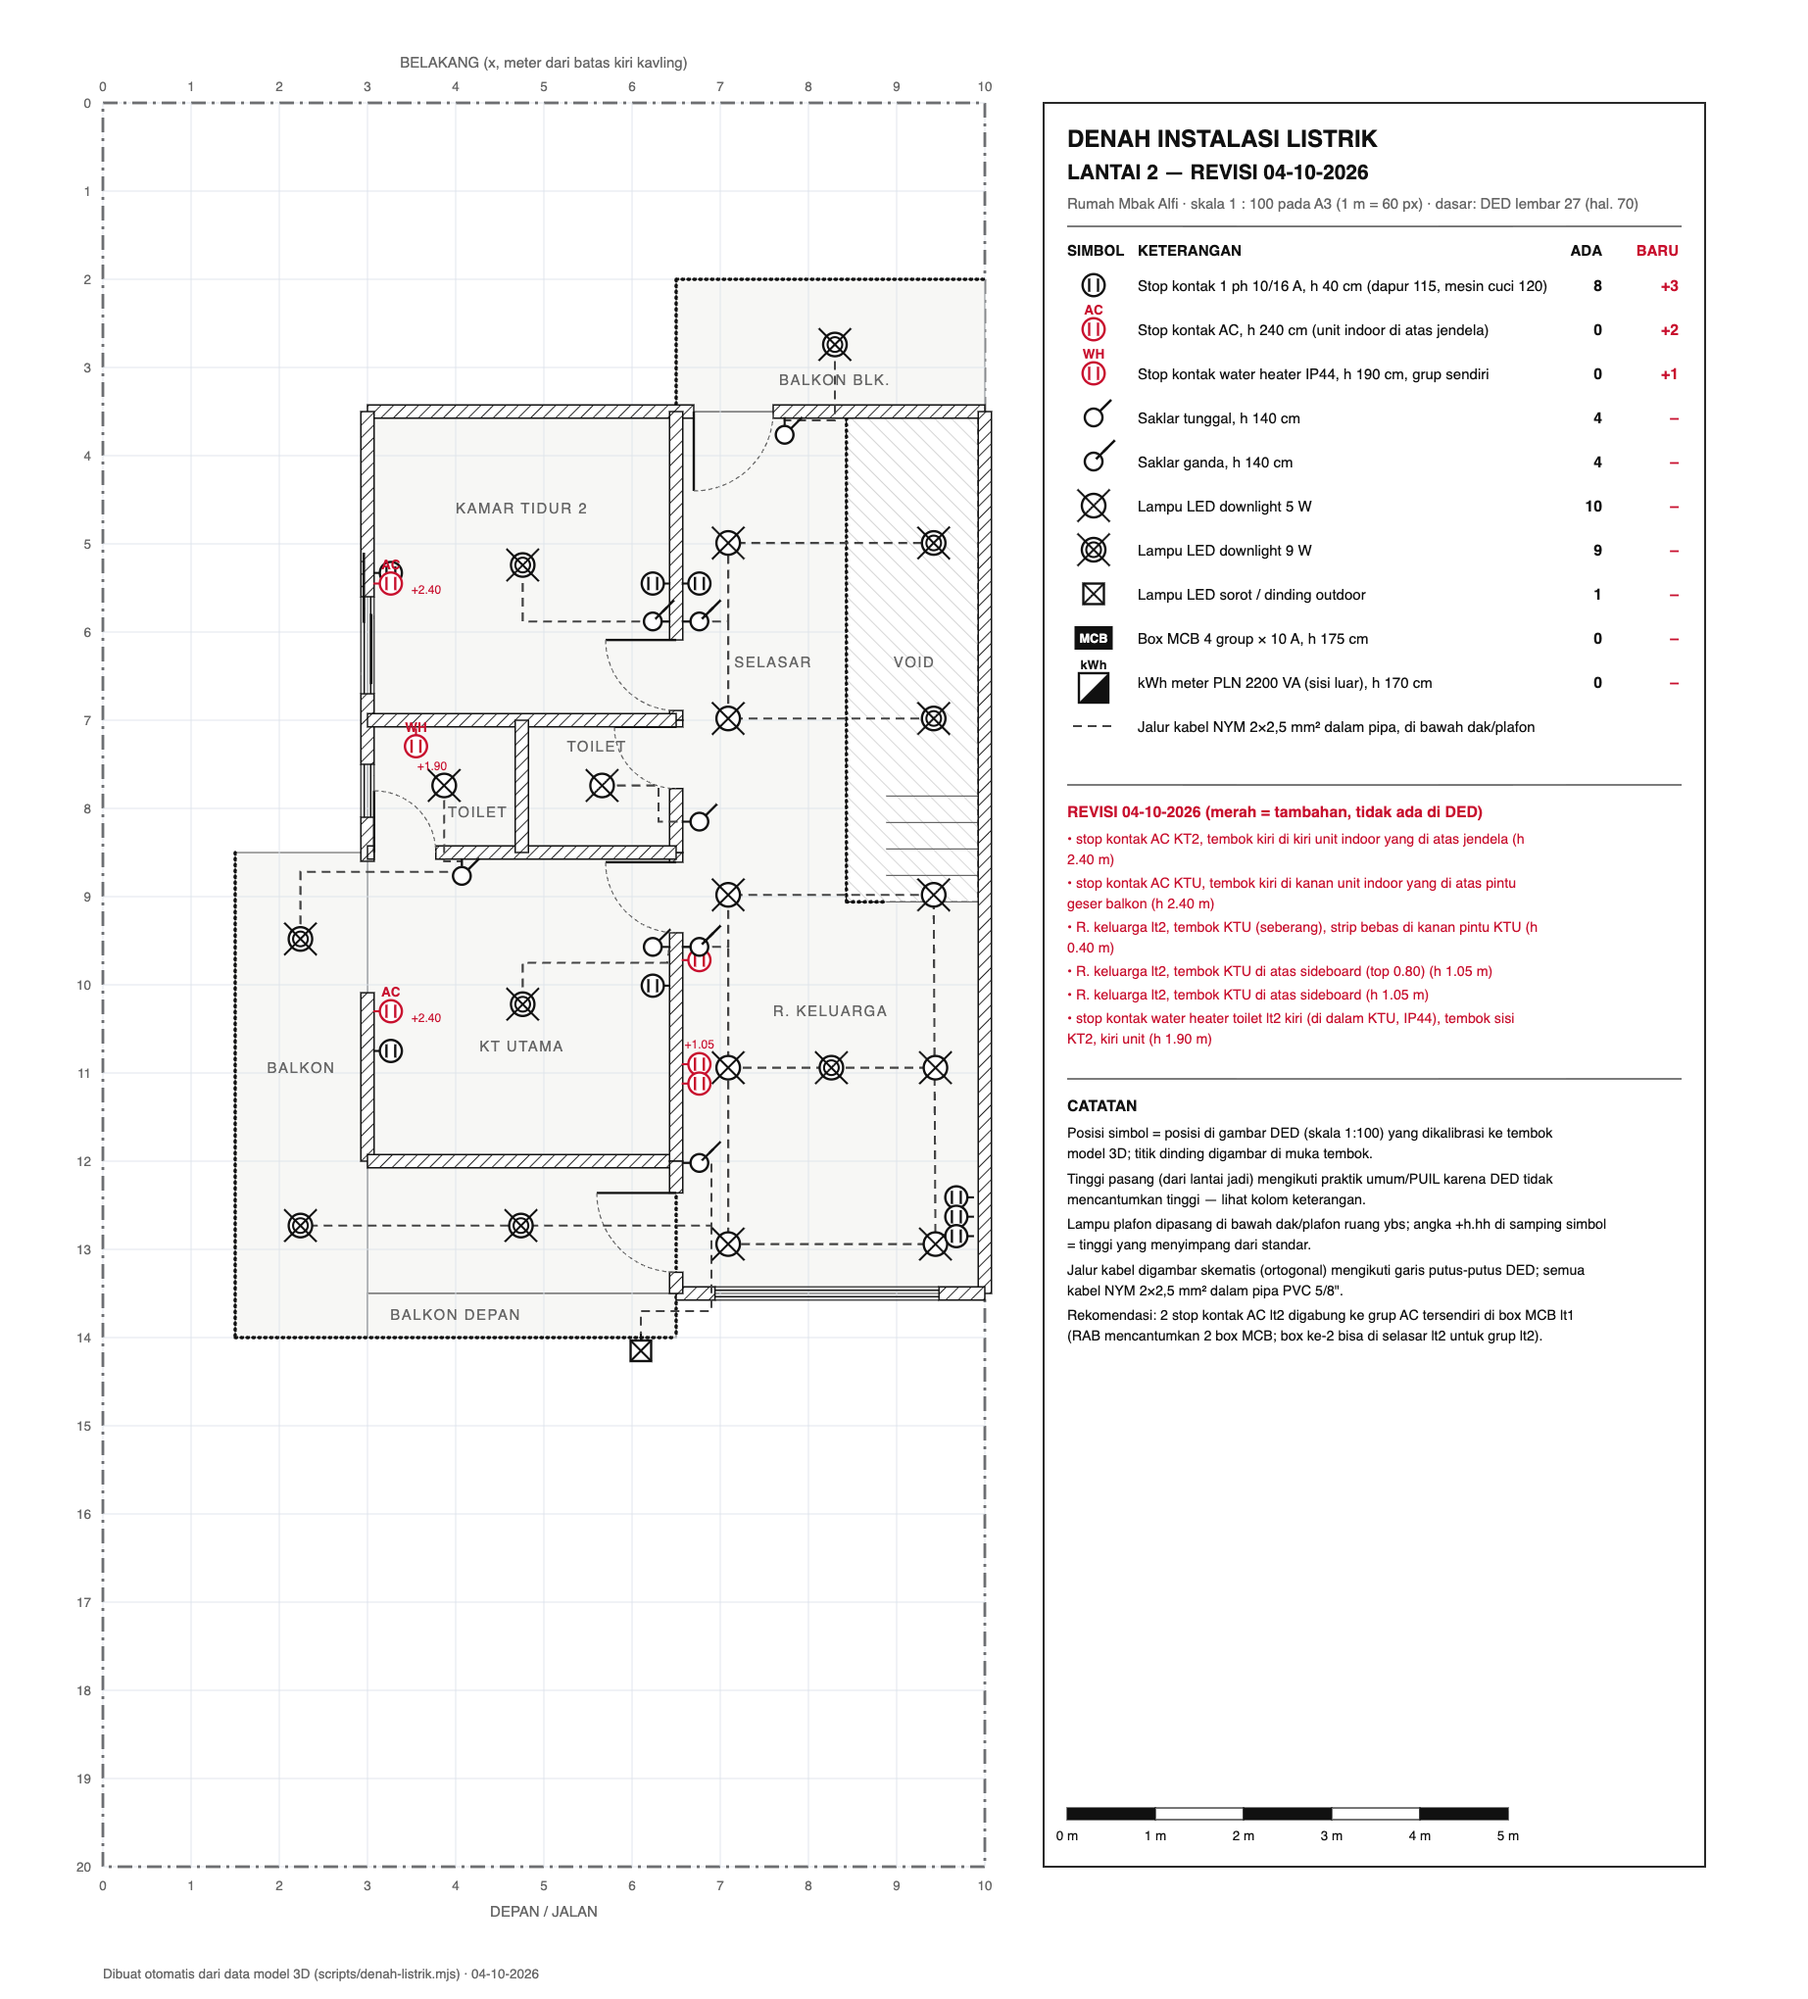
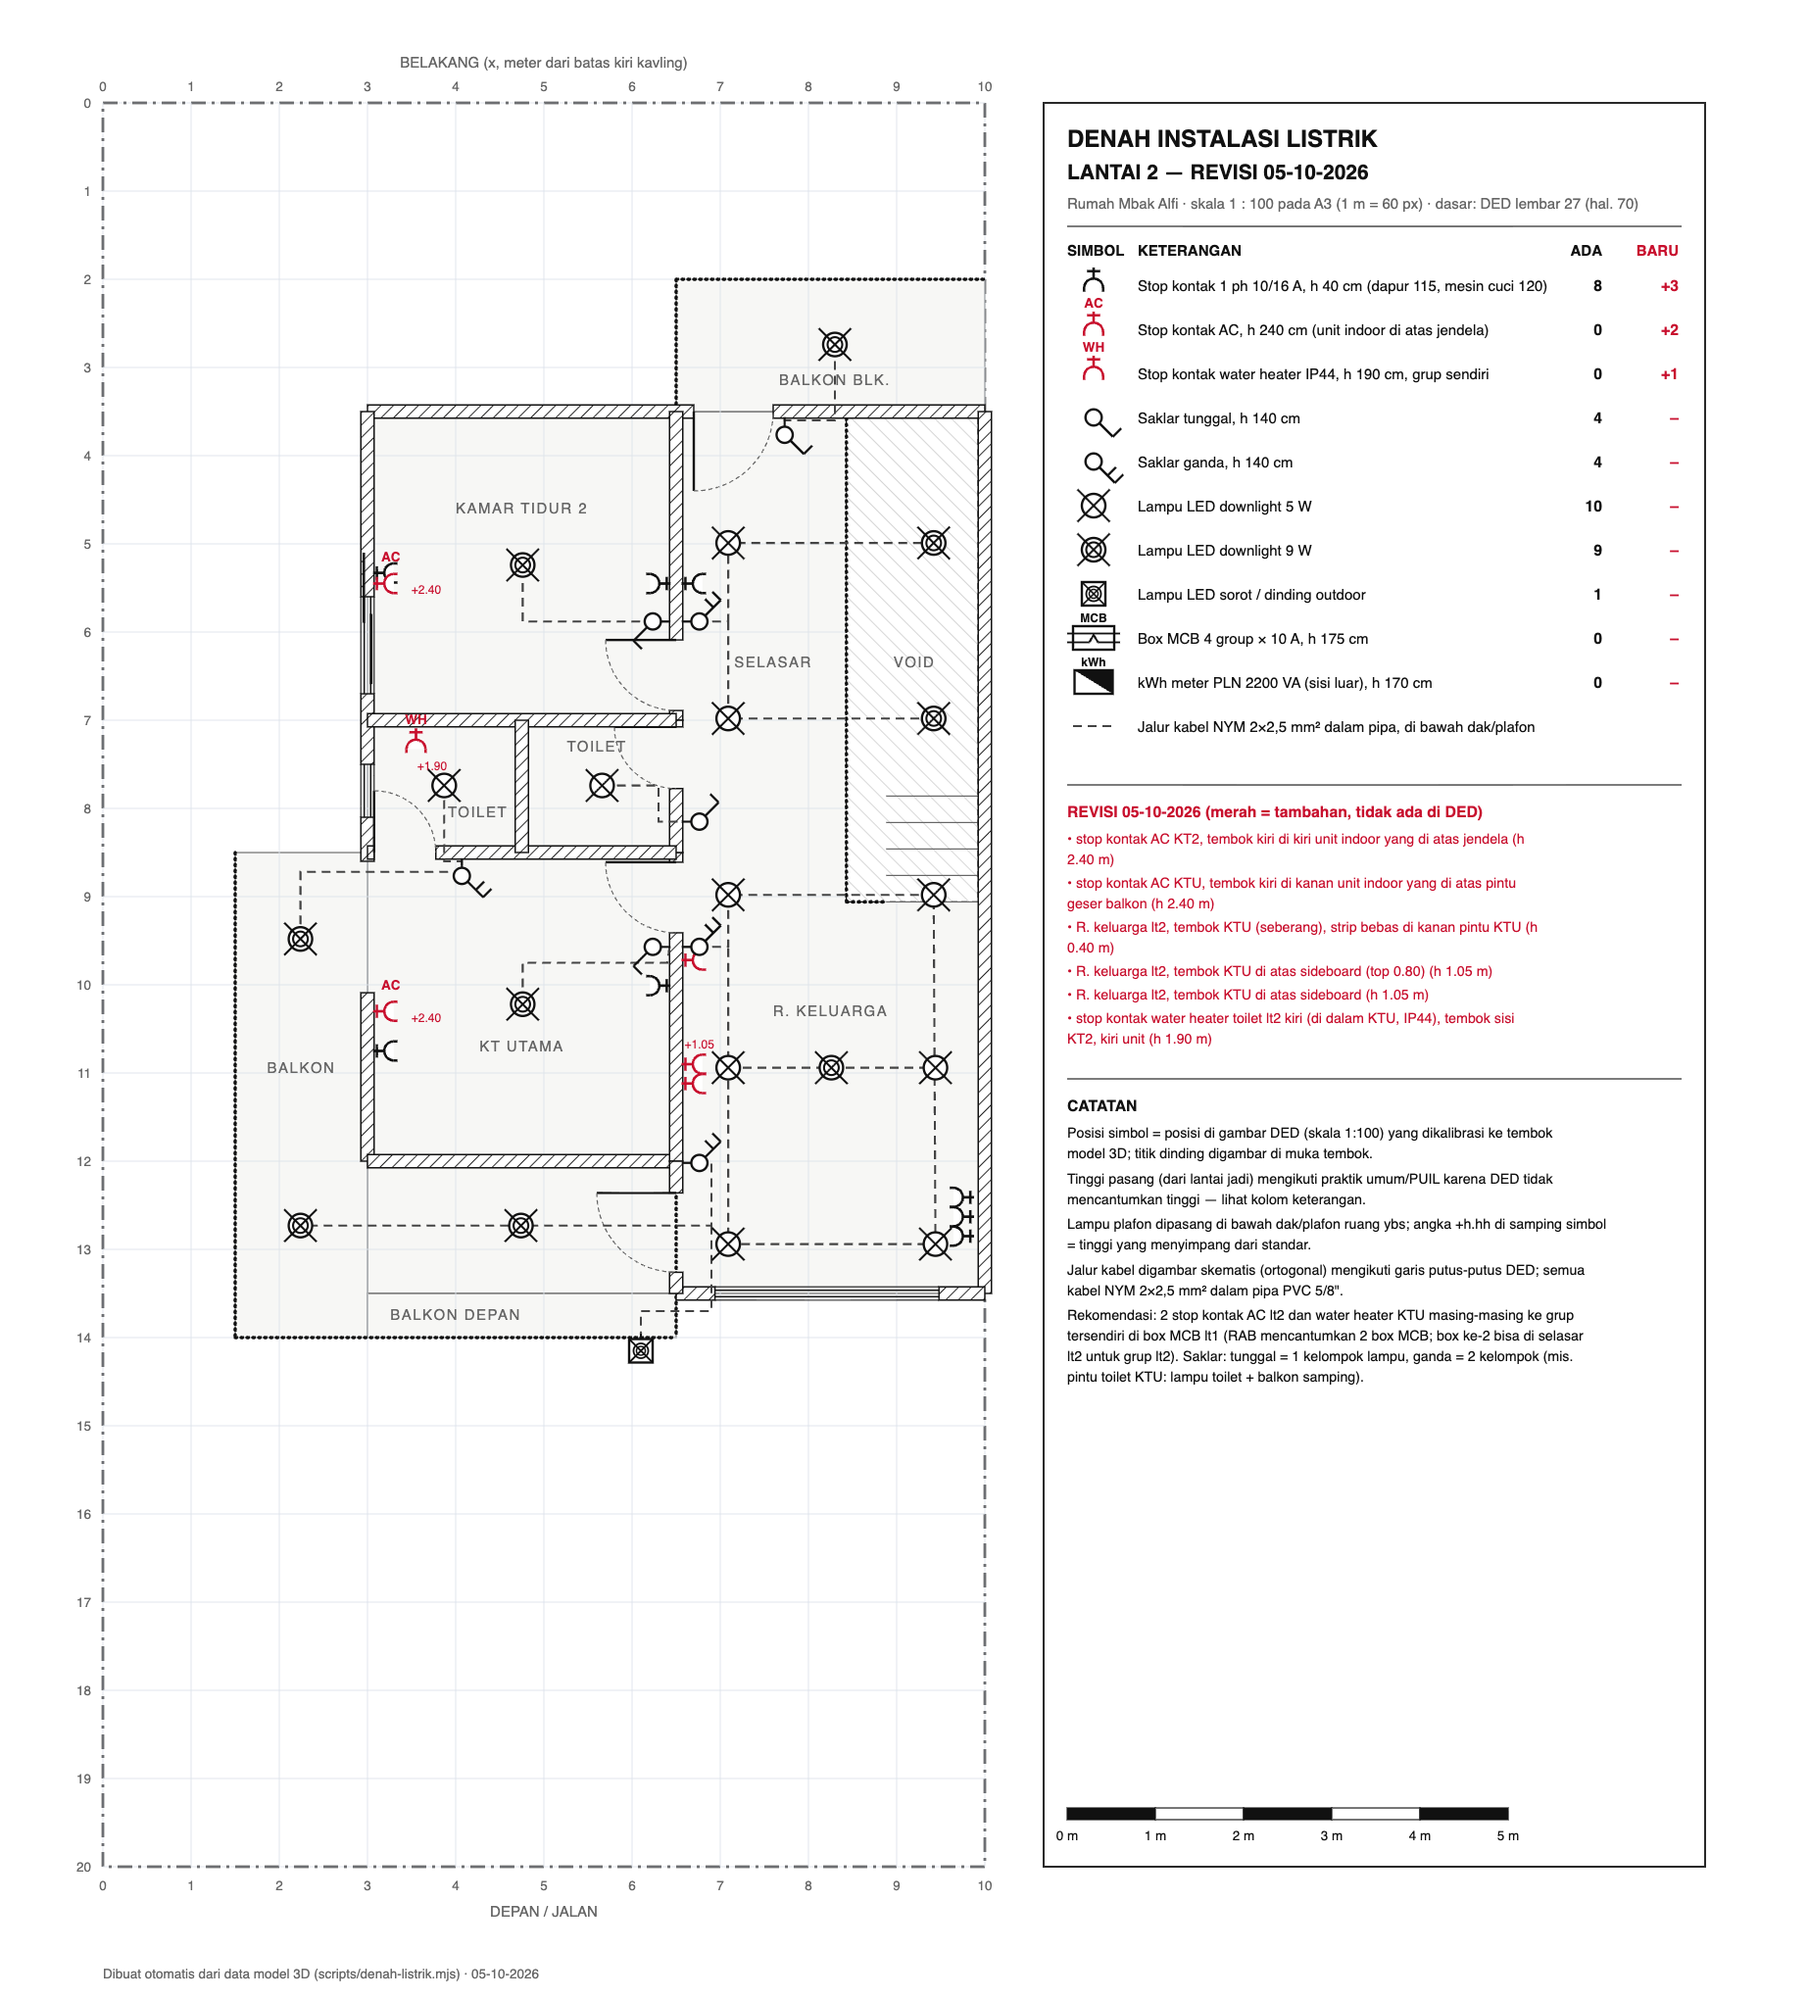
Denah listrik 2D: simbol meniru legenda DED, dua saklar lt2 dikoreksi
Verifikasi ulang 15 saklar dari scan 600 dpi (skeletonisasi) + jumlah
kelompok lampu per saklar + legenda DED (lt1 2/5, lt2 4/4): saklar KT2 =
tunggal (sebelumnya ganda), saklar di pintu toilet KTU = ganda (toilet kiri
+ balkon samping; sebelumnya tunggal). Simbol SVG digambar ulang mengikuti
legenda DED: stop kontak setengah lingkaran dengan batang & palang arde
(diputar menghadap ruang), saklar tunggal Λ / ganda λ bercabang, MCB kotak
dengan garis menembus, kWh separuh hitam, outdoor kotak + lingkaran ganda.
Tanggal revisi 05-10-2026, catatan box MCB 8 group.

diff --git a/src/layout/elektrik.js b/src/layout/elektrik.js
@@ -65,12 +65,13 @@ export const PERANGKAT = [
   { lvl: 'lt2', t: 'stopkontak', x: 6.563, z: 10.90, n: '+x', h: 1.05, baru: true, r: 'REVISI: R. keluarga lt2, tembok KTU di atas sideboard (top 0.80) — tambahan' },
   { lvl: 'lt2', t: 'stopkontak', x: 6.563, z: 11.12, n: '+x', h: 1.05, baru: true, r: 'REVISI: R. keluarga lt2, tembok KTU di atas sideboard — tambahan' },
   { lvl: 'lt2', t: 'stopkontak', x: 3.55, z: 7.095, n: '+z', h: 1.9, wh: true, baru: true, r: 'REVISI: stop kontak water heater toilet lt2 kiri (di dalam KTU, IP44), tembok sisi KT2, kiri unit — tambahan' },
-  // ---------------- LANTAI 2: saklar 8 (4 tunggal + 4 ganda) ----------------
+  // ---------------- LANTAI 2: saklar 8 (4 tunggal + 4 ganda) — diverifikasi ulang 5/10 dari scan 600 dpi: ganda = batang bercabang
+  // sebelum ujung (stub), tunggal = batang berakhir di tick; dicocokkan dengan jumlah kelompok lampu per saklar & legenda ----------------
   { lvl: 'lt2', t: 'saklar1', x: 7.73, z: 3.564, n: '+z', h: 1.4, r: 'selasar, kanan pintu balkon belakang → lampu balkon' },
-  { lvl: 'lt2', t: 'saklar2', x: 6.435, z: 5.88, n: '-x', h: 1.4, r: 'KT2, samping pintu → lampu KT2' },
+  { lvl: 'lt2', t: 'saklar1', x: 6.435, z: 5.88, n: '-x', h: 1.4, r: 'KT2, samping pintu → lampu KT2 (simbol DED: tunggal, 1 kelompok lampu)' },
   { lvl: 'lt2', t: 'saklar2', x: 6.563, z: 5.88, n: '+x', h: 1.4, r: 'selasar → lampu selasar & void tangga' },
   { lvl: 'lt2', t: 'saklar1', x: 6.563, z: 8.15, n: '+x', h: 1.4, r: 'selasar → lampu toilet kanan' },
-  { lvl: 'lt2', t: 'saklar1', x: 4.07, z: 8.565, n: '+z', h: 1.4, r: 'KTU, kanan pintu toilet → lampu toilet kiri' },
+  { lvl: 'lt2', t: 'saklar2', x: 4.07, z: 8.565, n: '+z', h: 1.4, r: 'KTU, kanan pintu toilet → lampu toilet kiri + lampu balkon samping kiri (simbol DED: ganda, 2 kelompok)' },
   { lvl: 'lt2', t: 'saklar1', x: 6.435, z: 9.57, n: '-x', h: 1.4, r: 'KTU, samping pintu → lampu KTU' },
   { lvl: 'lt2', t: 'saklar2', x: 6.563, z: 9.57, n: '+x', h: 1.4, r: 'R. keluarga lt2, samping pintu KTU → lampu r. keluarga' },
   { lvl: 'lt2', t: 'saklar2', x: 6.563, z: 12.02, n: '+x', h: 1.4, r: 'R. keluarga lt2, samping pintu balkon → lampu balkon depan + sorot' },

diff --git a/docs/rab-listrik.md b/docs/rab-listrik.md
@@ -1,4 +1,4 @@
-# Estimasi Biaya Instalasi Listrik — Rumah Mbak Alfi (revisi 04-10-2026)
+# Estimasi Biaya Instalasi Listrik — Rumah Mbak Alfi (revisi 05-10-2026)
 
 Dihitung otomatis oleh `scripts/rab-listrik.mjs` dari data model 3D (`src/layout/elektrik.js`). Harga satuan mengikuti **RAB V3 bagian IX** untuk item yang sama; item bertanda \* adalah perkiraan harga pasar (Okt 2026) karena tidak ada di RAB.
 
